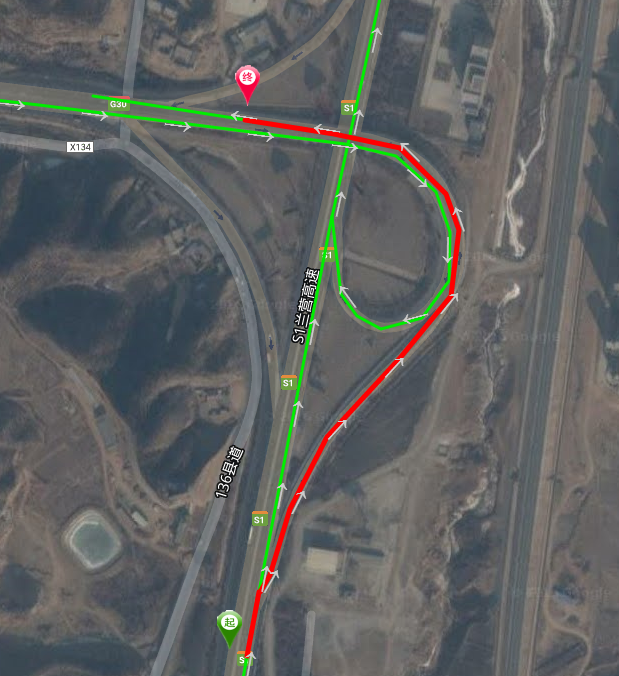
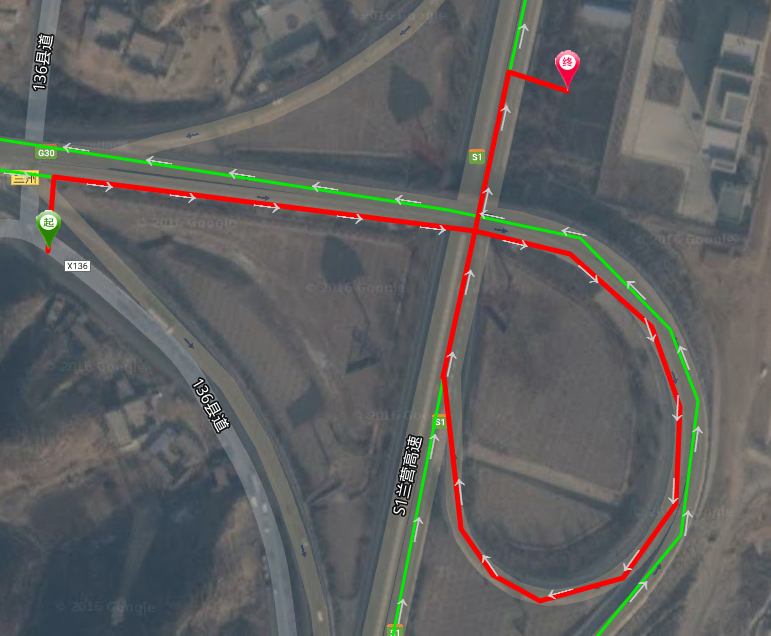
Version:1.1.1 1.function add default parm 2.function add some parms 3.add prepare line of start and end line to result

diff --git a/README.md b/README.md
@@ -24,7 +24,10 @@ add pgr_fromatob function to your database
 ## Step 3.
 SQL Usage:
 ```
-SELECT ST_AsGeoJson(pgr_fromatob) AS geojson FROM pgr_fromAtoB('line_guide','102.73590087890626', '36.13787471840729', '103.06686401367188','36.13787471840729');
+SELECT ST_AsGeoJson(pgr_fromatob) AS geojson FROM pgr_fromAtoB('102.73590087890626', '36.13787471840729', '103.06686401367188','36.13787471840729','line_guide',true,'geom');
+```
+```
+SELECT ST_AsGeoJson(pgr_fromatob) AS geojson FROM pgr_fromAtoB('102.73590087890626', '36.13787471840729', '103.06686401367188','36.13787471840729');
 ```
 
 ## Step 4.
@@ -47,6 +50,13 @@ SELECT ST_AsGeoJson(pgr_fromatob) AS geojson FROM pgr_fromAtoB('line_guide','102
 * set pgr_dijkstra only for directed
 * fixed un-directed problem
 * fixed on path sub problem 
+
+----------------------------------------------------
+## Version:1.1.1
+
+* function add default parm
+* function add some parms
+* add prepare line of start and end line to result
 
 ----------------------------------------------------
 # Contacting
